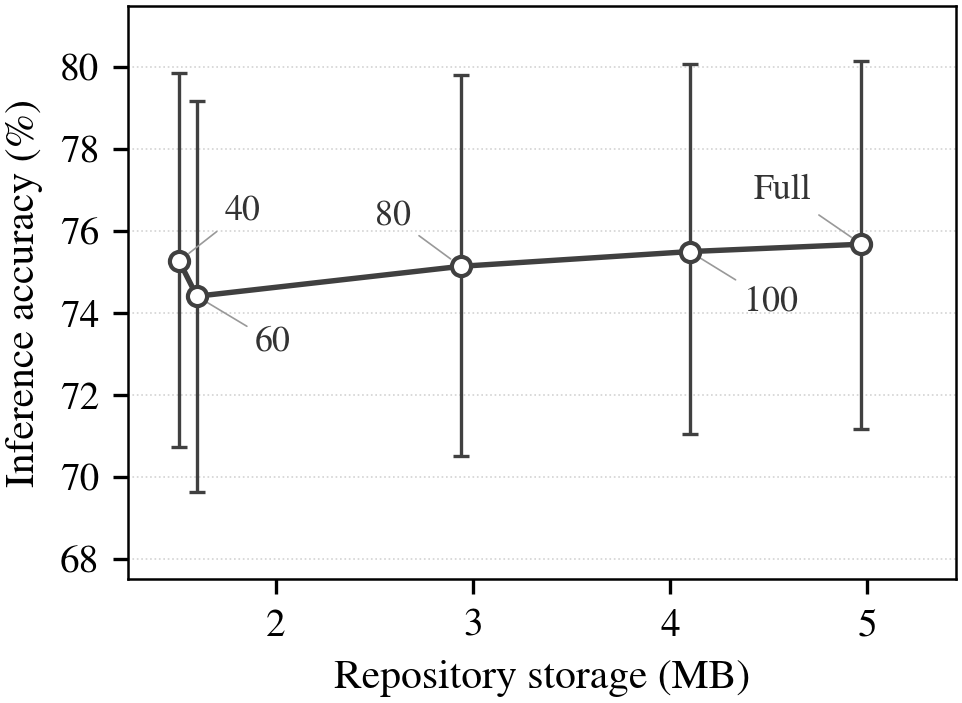
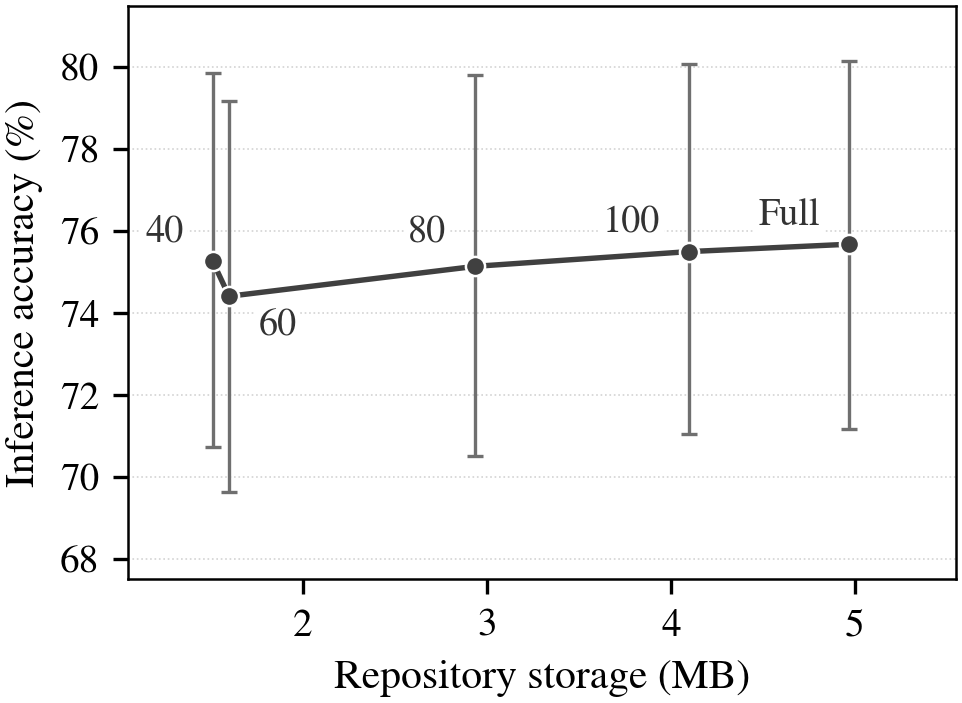
Fig. 8(b): restyle accuracy-vs-storage to match panel (a) — filled markers, same line weight, plain labels

diff --git a/ExpEvo_release/p7/expevo_lifecycle/runs/p10_backend_refinement/scripts/plot_accuracy_vs_storage.py b/ExpEvo_release/p7/expevo_lifecycle/runs/p10_backend_refinement/scripts/plot_accuracy_vs_storage.py
@@ -35,8 +35,8 @@ plt.rcParams.update({
 })
 
 # label placement for panel (b): (dx, dy, ha)
-# label placement for panel (b): (dx pt, dy pt), with a thin leader line so clusters stay readable
-ANNOT = {"Full": (-12, 13), "100": (13, -12), "80": (-12, 12), "60": (14, -11), "40": (11, 12)}
+# label placement for panel (b), matching panel (a)'s plain typography (no leader lines)
+ANNOT = {"Full": (-7, 7), "100": (-7, 7), "80": (-7, 8), "60": (7, -7), "40": (-7, 7)}
 
 
 def load():
@@ -54,19 +54,20 @@ def panel_accuracy_vs_storage(ax, table, ci):
     hi = [float(ci[s]["ci95_high"]) for s in SETTINGS]
     yerr = [[y[i] - lo[i] for i in range(len(y))], [hi[i] - y[i] for i in range(len(y))]]
 
-    ax.errorbar(x, y, yerr=yerr, fmt="none", ecolor="#404040", elinewidth=0.8,
+    # same visual language as panel (a): solid line, filled marker with a white edge
+    ax.errorbar(x, y, yerr=yerr, fmt="none", ecolor="#6f6f6f", elinewidth=0.8,
                 capsize=2.0, capthick=0.8, zorder=3)
     ax.plot(x, y, "-", color="#404040", lw=1.3, zorder=4)
-    ax.plot(x, y, "o", ms=4.6, mfc="white", mec="#404040", mew=1.0, zorder=5)
+    ax.plot(x, y, "o", ms=4.6, mfc="#404040", mec="white", mew=0.6, zorder=5)
     for s, xi, yi in zip(SETTINGS, x, y):
         lab = LABELS[SETTINGS.index(s)]
         dx, dy = ANNOT[lab]
         ax.annotate(lab, (xi, yi), textcoords="offset points", xytext=(dx, dy),
-                    ha="left" if dx > 0 else "right", va="center", fontsize=8.6, color="#333333",
-                    arrowprops=dict(arrowstyle="-", lw=0.4, color="#999999", shrinkA=0, shrinkB=3))
+                    ha="right" if dx < 0 else "left", va="center", fontsize=9.2, color="#333333",
+                    bbox=dict(boxstyle="square,pad=0.10", fc="white", ec="none"))
     ax.set_xlabel("Repository storage (MB)")
     ax.set_ylabel("Inference accuracy (%)")
-    ax.set_xlim(1.25, 5.45)
+    ax.set_xlim(1.05, 5.55)
     ax.set_ylim(67.5, 81.5)
     ax.grid(True, axis="y", ls=":", lw=0.4, alpha=0.55)
     ax.set_axisbelow(True)
